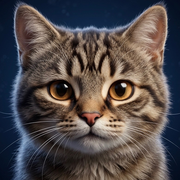
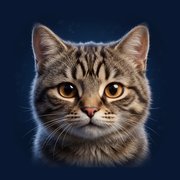
Ikona: ausys telpa, mažiau apkarpyta
Claude-Session: https://claude.ai/code/session_01T1js6iTP4zbYMHK4fwvNmS

diff --git a/index.html b/index.html
@@ -6,9 +6,9 @@
   <meta name="apple-mobile-web-app-capable" content="yes">
   <meta name="apple-mobile-web-app-status-bar-style" content="black-translucent">
   <meta name="theme-color" content="#0D1520">
-  <link rel="icon" type="image/png" href="icon-192.png?v=2">
-  <link rel="apple-touch-icon" href="icon-180.png?v=2">
-  <link rel="manifest" href="manifest.json?v=2">
+  <link rel="icon" type="image/png" href="icon-192.png?v=3">
+  <link rel="apple-touch-icon" href="icon-180.png?v=3">
+  <link rel="manifest" href="manifest.json?v=3">
   <title>Maja 🐾</title>
   <link href="https://fonts.googleapis.com/css2?family=Plus+Jakarta+Sans:wght@400;500;600;700;800&display=swap" rel="stylesheet">
   <style>
